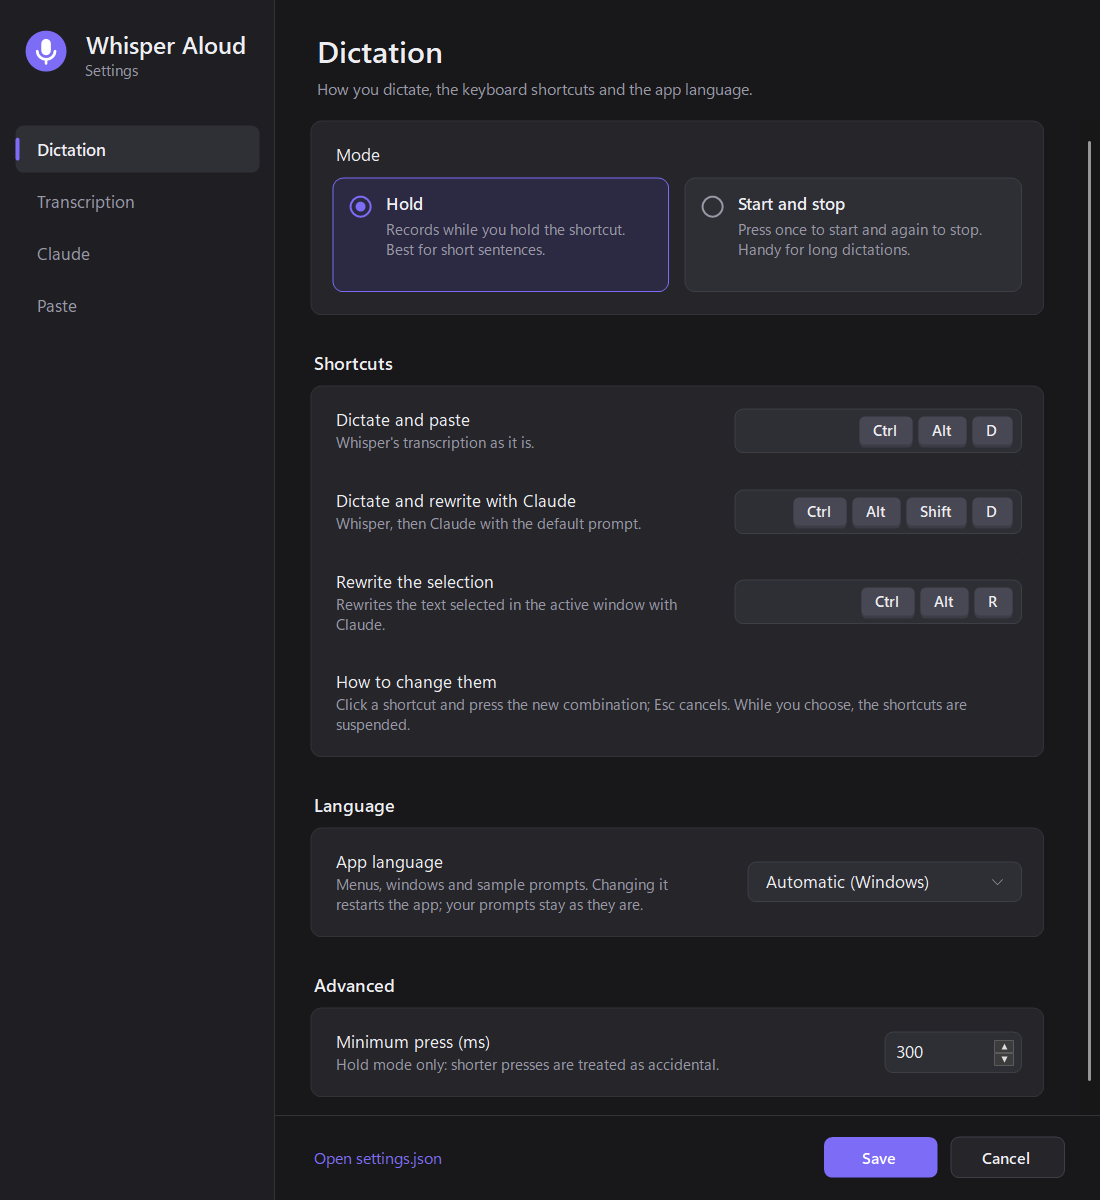
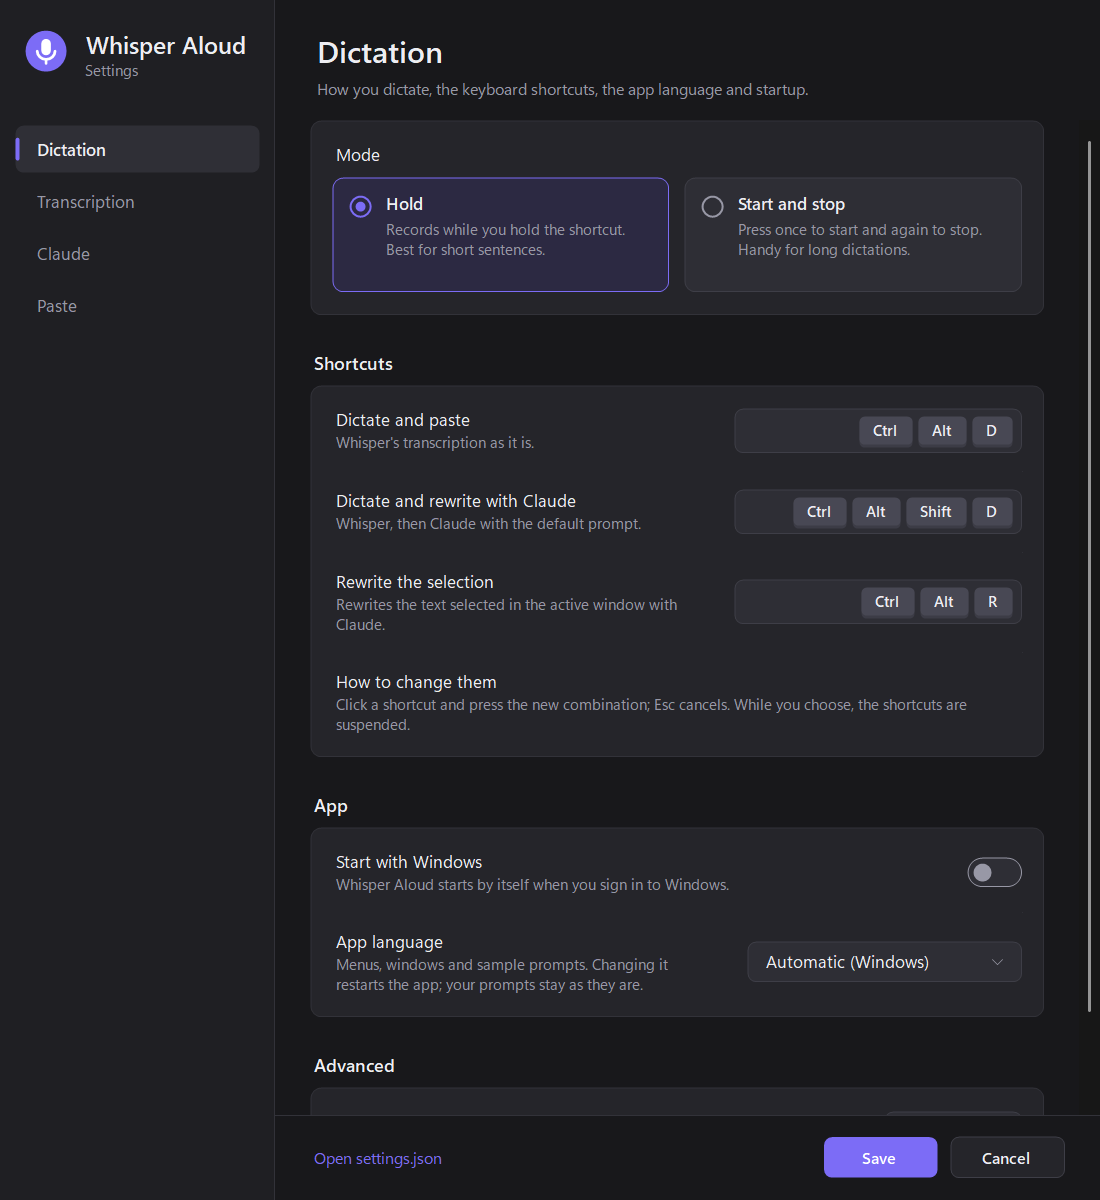
Release workflow, single-file exe and Start with Windows
- A tag v* builds a self-contained single-file WhisperAloud.exe for Windows x64
  (68 MB, .NET and Whisper native libraries included, only win-x64 and
  vulkan/win-x64 kept) and attaches it to a GitHub Release.
- New "Start with Windows" setting, through the user's Run registry key; the
  path is refreshed at every start so it survives moving the exe.
- README: Usage starts from the downloaded exe, with the SmartScreen note;
  running from source and releasing are in CONTRIBUTING.

diff --git a/src/WhisperAloud.App/SettingsForm.cs b/src/WhisperAloud.App/SettingsForm.cs
@@ -22,6 +22,7 @@ internal sealed class SettingsForm : Form
     private readonly KeyCapBox _hotkeySelection = new();
     private readonly NumericUpDown _minRecording = Number(0, 5000, 50);
     private readonly DarkComboBox _uiLanguage = Combo(220);
+    private readonly ToggleSwitch _startWithWindows = new();
 
     private readonly DarkComboBox _microphone = Combo(300);
     private readonly DarkComboBox _gpu = Combo(300);
@@ -74,7 +75,7 @@ internal sealed class SettingsForm : Form
         _toggle.Selected += (_, _) => SelectMode(DictationMode.Toggle);
 
         var pageHost = new Panel { Dock = DockStyle.Fill, BackColor = Window };
-        AddPage(pageHost, T("Dettatura", "Dictation"), T("Come detti, le scorciatoie da tastiera e la lingua dell'app.", "How you dictate, the keyboard shortcuts and the app language."), BuildDictationPage());
+        AddPage(pageHost, T("Dettatura", "Dictation"), T("Come detti, le scorciatoie da tastiera, lingua e avvio dell'app.", "How you dictate, the keyboard shortcuts, the app language and startup."), BuildDictationPage());
         AddPage(pageHost, T("Trascrizione", "Transcription"), T("Microfono e Whisper, il modello che trascrive in locale sulla GPU.", "Microphone and Whisper, the model that transcribes locally on the GPU."), BuildTranscriptionPage());
         AddPage(pageHost, "Claude", T("Riscrittura con i tuoi prompt, solo quando la chiedi.", "Rewriting with your prompts, only when you ask for it."), BuildClaudePage());
         AddPage(pageHost, T("Incolla", "Paste"), T("Cosa succede dopo la trascrizione.", "What happens after the transcription."), BuildPastePage());
@@ -130,8 +131,10 @@ internal sealed class SettingsForm : Form
                 new SettingRow(T("Come cambiarle", "How to change them"),
                     T("Clicca su una scorciatoia e premi la nuova combinazione; Esc annulla. Mentre scegli, le scorciatoie sono sospese.",
                       "Click a shortcut and press the new combination; Esc cancels. While you choose, the shortcuts are suspended."), null)),
-            Section(T("Lingua", "Language")),
+            Section("App"),
             new SettingsCard(
+                new SettingRow(T("Avvia con Windows", "Start with Windows"),
+                    T("Whisper Aloud parte da solo quando accedi a Windows.", "Whisper Aloud starts by itself when you sign in to Windows."), _startWithWindows),
                 new SettingRow(T("Lingua dell'app", "App language"),
                     T("Menu, finestre e prompt di esempio. Cambiandola l'app si riavvia; i tuoi prompt restano come sono.",
                       "Menus, windows and sample prompts. Changing it restarts the app; your prompts stay as they are."), _uiLanguage)),
@@ -331,6 +334,7 @@ internal sealed class SettingsForm : Form
         _uiLanguage.Items.AddRange([new TextChoice("auto", T("Automatica (Windows)", "Automatic (Windows)")),
             new TextChoice("it", "Italiano"), new TextChoice("en", "English")]);
         _uiLanguage.SelectedItem = _uiLanguage.Items.Cast<TextChoice>().FirstOrDefault(c => c.Value == _settings.UiLanguage) ?? _uiLanguage.Items[0];
+        _startWithWindows.Checked = _settings.StartWithWindows;
 
         _microphone.Items.Add(new Choice(-1, T("Predefinito di Windows", "Windows default")));
         foreach (var (index, name) in MicRecorder.ListDevices()) _microphone.Items.Add(new Choice(index, name));
@@ -408,6 +412,7 @@ internal sealed class SettingsForm : Form
         _settings.HotkeyCleanSelection = _hotkeySelection.Text;
         _settings.MinRecordingMs = (int)_minRecording.Value;
         _settings.UiLanguage = ((TextChoice)_uiLanguage.SelectedItem!).Value;
+        _settings.StartWithWindows = _startWithWindows.Checked;
 
         _settings.MicrophoneDevice = ((Choice)_microphone.SelectedItem!).Value;
         _settings.GpuDevice = ((Choice)_gpu.SelectedItem!).Value;

diff --git a/src/WhisperAloud.App/TrayApp.cs b/src/WhisperAloud.App/TrayApp.cs
@@ -67,6 +67,7 @@ internal sealed class TrayApp : ApplicationContext
 
         AppLog.Info($"avvio, microfono: {MicRecorder.DeviceName(settings.MicrophoneDevice)}");
         RegisterHotkeys();
+        if (settings.StartWithWindows) ApplyAutostart(true); // aggiorna il percorso se l'exe è stato spostato
         StartCleaner();
         _ = LoadTranscriberAsync();
     }
@@ -453,6 +454,8 @@ internal sealed class TrayApp : ApplicationContext
         }
         AppLog.Info($"impostazioni salvate (modalità {updated.Mode}, microfono {MicRecorder.DeviceName(updated.MicrophoneDevice)}, GPU {updated.GpuDevice})");
 
+        if (old.StartWithWindows != updated.StartWithWindows) ApplyAutostart(updated.StartWithWindows);
+
         // La lingua dell'interfaccia vale per menu e finestre già costruiti: si riavvia l'app.
         if (Loc.Resolve(old.UiLanguage) != Loc.Resolve(updated.UiLanguage))
         {
@@ -551,6 +554,19 @@ internal sealed class TrayApp : ApplicationContext
         AppLog.Write(e);
         if (_overlay is not null) _overlay.ShowMessage(T("Errore", "Error"), e.Message);
         else _tray.ShowBalloonTip(5000, Title, e.Message, ToolTipIcon.Error);
+    }
+
+    private void ApplyAutostart(bool enabled)
+    {
+        try
+        {
+            Autostart.Apply(enabled);
+            AppLog.Info($"avvio con Windows: {(enabled ? "attivo" : "spento")}");
+        }
+        catch (Exception e) when (e is UnauthorizedAccessException or System.Security.SecurityException or IOException)
+        {
+            Report(new InvalidOperationException(T($"Avvio con Windows non impostato: {e.Message}", $"Could not set Start with Windows: {e.Message}"), e));
+        }
     }
 
     /// <summary>Avvia una nuova istanza, che aspetta la chiusura di questa prima di partire.</summary>

diff --git a/src/WhisperAloud.App/Autostart.cs b/src/WhisperAloud.App/Autostart.cs
@@ -1,0 +1,20 @@
+using Microsoft.Win32;
+
+namespace WhisperAloud.App;
+
+/// <summary>
+/// Avvio con Windows tramite la chiave Run dell'utente (niente permessi di amministratore). Il percorso si
+/// riscrive a ogni avvio, così l'opzione continua a funzionare anche se l'exe viene spostato.
+/// </summary>
+internal static class Autostart
+{
+    private const string RunKey = @"Software\Microsoft\Windows\CurrentVersion\Run";
+    private const string ValueName = "WhisperAloud";
+
+    public static void Apply(bool enabled)
+    {
+        using var key = Registry.CurrentUser.CreateSubKey(RunKey);
+        if (enabled) key.SetValue(ValueName, $"\"{Environment.ProcessPath}\"");
+        else if (key.GetValue(ValueName) is not null) key.DeleteValue(ValueName);
+    }
+}

diff --git a/src/WhisperAloud.Core/WhisperAloudSettings.cs b/src/WhisperAloud.Core/WhisperAloudSettings.cs
@@ -58,6 +58,9 @@ public sealed class WhisperAloudSettings
     /// <summary>Le pressioni più brevi di così sono considerate accidentali.</summary>
     public int MinRecordingMs { get; set; } = 300;
 
+    /// <summary>Avvia l'app all'accesso a Windows (chiave Run dell'utente).</summary>
+    public bool StartWithWindows { get; set; }
+
     private static readonly JsonSerializerOptions JsonOptions = new()
     {
         WriteIndented = true,

diff --git a/README.md b/README.md
@@ -5,7 +5,7 @@ Voice dictation for Windows in the style of Wispr Flow: hold a shortcut, speak, 
 - **Local transcription**
   - With [Whisper.net](https://github.com/sandrohanea/whisper.net) (whisper.cpp) and the quantized `large-v3-turbo` model, on the GPU through Vulkan.
 - **Optional rewriting with Claude**
-  - Light proofreading, meeting notes, translation, or your own.
+  - [Prompts](docs/settings.md#prompts): light proofreading, meeting notes, translation, or your own.
   - Through the [Claude Code](https://code.claude.com/docs/en/overview) CLI in headless mode, using the Claude subscription already signed in on the machine.
 
 ![Dictating an email with Whisper Aloud](docs/images/usage.gif)
@@ -14,17 +14,17 @@ Transcription runs locally on your GPU; rewriting with Claude is optional and on
 
 ## Prerequisites
 
-- Windows 10 or 11, x64, with the [.NET 10 SDK](https://dotnet.microsoft.com/download).
+- Windows 10 or 11, x64.
 - A GPU with a Vulkan driver for fast transcription. Without one Whisper falls back to the CPU and is much slower. On laptops with hybrid graphics the app picks the dedicated GPU automatically: see [latency](docs/latency.md#laptops-with-two-gpus).
 - For rewriting only: [Claude Code](https://code.claude.com/docs/en/overview) installed and signed in (`claude` on the `PATH` or in `%USERPROFILE%\.local\bin`). The app never handles logins or credentials; without Claude Code it still transcribes.
 
 ## Usage
 
-```bash
-dotnet run -c Release --project src/WhisperAloud.App
-```
+Download `WhisperAloud.exe` from the [latest release](https://github.com/mgiuseppe/whisper-aloud/releases/latest) and run it: no installation, and .NET is included. On first start the app downloads the Whisper model (~550 MB) to `%LOCALAPPDATA%\WhisperAloud\models` and creates `%APPDATA%\WhisperAloud\settings.json`. To have it start when you sign in, turn on **Start with Windows** in the settings.
 
-On first start the app downloads the Whisper model (~550 MB) to `%LOCALAPPDATA%\WhisperAloud\models` and creates `%APPDATA%\WhisperAloud\settings.json`.
+The exe is not code-signed, so the first time Windows SmartScreen may say "Windows protected your PC": choose **More info**, then **Run anyway**.
+
+To run it from the source code instead, see [Contributing](CONTRIBUTING.md#build-and-run).
 
 ### Shortcuts
 
@@ -33,8 +33,6 @@ On first start the app downloads the Whisper model (~550 MB) to `%LOCALAPPDATA%\
 | `Ctrl+Alt+D` (hold) | dictate and paste Whisper's transcription as it is |
 | `Ctrl+Alt+Shift+D` (hold) | dictate, rewrite with the default Claude prompt, paste |
 | `Ctrl+Alt+R` | rewrite the selected text with the default prompt and replace it |
-
-Rewriting uses customizable [prompts](docs/settings.md#prompts).
 
 > [!NOTE]
 > Whisper transcribes in the language set in the settings (Italian or English by default, following the app language), not the one it hears. You can set it to `auto` to detect the language from the recording, handy if you switch languages often, but on short dictations it guesses wrong more often: see [Transcription settings](docs/settings.md#transcription).

diff --git a/CONTRIBUTING.md b/CONTRIBUTING.md
@@ -13,7 +13,7 @@ Thanks for taking a look. This page covers the project layout, how to build, tes
 | Path | Contents |
 |---|---|
 | `src/WhisperAloud.Core` | transcription (`WhisperTranscriber`, `VulkanDevices`), rewriting (`ClaudeCleaner`, `ClaudeProcess`, `CleanupPrompt`, stream-json protocol in `StreamJson`), settings (`WhisperAloudSettings`), data folders (`AppPaths`), latency log |
-| `src/WhisperAloud.App` | WinForms tray app: shortcuts (`Hotkey`, `RegisterHotKey`), recording (`MicRecorder`, NAudio), pasting (`TextInjector`, `SendInput`), status window (`OverlayForm`), settings window (`SettingsForm`), dark theme (`Theme`, `ModernControls`) |
+| `src/WhisperAloud.App` | WinForms tray app: shortcuts (`Hotkey`, `RegisterHotKey`), start with Windows (`Autostart`), recording (`MicRecorder`, NAudio), pasting (`TextInjector`, `SendInput`), status window (`OverlayForm`), settings window (`SettingsForm`), dark theme (`Theme`, `ModernControls`) |
 | `tests/WhisperAloud.Core.Tests` | xUnit tests for the stream-json protocol, prompts, prompt lookup and CLI arguments |
 | `tools/WhisperAloud.Bench` | benchmark of the pipeline on audio files |
 | `samples` | three sentences synthesized with the Windows "Elsa" voice (for Whisper timing) and `trascrizioni.txt` (for rewriting quality and timing) |
@@ -28,7 +28,27 @@ dotnet build WhisperAloud.slnx -c Release
 dotnet run -c Release --project src/WhisperAloud.App
 ```
 
-Only one instance runs at a time: quit the running app from the tray menu (**Esci**) before starting a new build, otherwise the new one exits immediately.
+Only one instance runs at a time: quit the running app from the tray menu (**Quit**) before starting a new build, otherwise the new one exits immediately.
+
+## Release
+
+Pushing a tag that starts with `v` runs the [Release workflow](.github/workflows/release.yml): it runs the tests, publishes a self-contained single-file `WhisperAloud.exe` for Windows x64 and creates a GitHub Release with the exe attached and notes generated from the commits.
+
+```bash
+git tag v1.0.0
+```
+
+```bash
+git push origin v1.0.0
+```
+
+To build the same exe locally:
+
+```bash
+dotnet publish src/WhisperAloud.App -c Release -r win-x64 --self-contained true -p:PublishSingleFile=true -p:IncludeAllContentForSelfExtract=true -p:EnableCompressionInSingleFile=true -p:DebugType=none -o publish
+```
+
+The exe bundles .NET and the Whisper native libraries, keeping only those for `win-x64` (CPU) and `vulkan/win-x64` (GPU); on first start it extracts them to `%TEMP%\.net\WhisperAloud`.
 
 ## Tests
 

diff --git a/docs/settings.md b/docs/settings.md
@@ -25,6 +25,7 @@ The interface is available in English and Italian: see **App language** under [D
   - **Dictate and rewrite with Claude**: dictate, rewrite with the default prompt, paste.
   - **Rewrite the selection**: rewrite the text selected in the active window with the default prompt.
   - If a shortcut is already taken by another app, Whisper Aloud says so and still registers the others.
+- **Start with Windows**: starts Whisper Aloud when you sign in to Windows, through the `Run` key of your user in the registry; no administrator rights needed. If you move the exe, the path is updated at the next start.
 - **App language**: **Automatic (Windows)** uses Italian when Windows is in Italian and English otherwise; or choose **Italiano** or **English**. Changing it restarts the app. The sample prompts are created in the app language on first start; after that they are yours and are not translated.
 - **Minimum press (ms)**: hold mode only; shorter presses are treated as accidental and show a hint instead of recording.
 
@@ -116,6 +117,7 @@ The settings window covers everything most people need. The link **Open settings
 | `HotkeyDictateWithClaude` | `Ctrl+Alt+Shift+D` | |
 | `HotkeyCleanSelection` | `Ctrl+Alt+R` | |
 | `MinRecordingMs` | `300` | hold mode only |
+| `StartWithWindows` | `false` | start the app when you sign in to Windows |
 | `UiLanguage` | `auto` | app language: `auto` (Italian if Windows is in Italian, otherwise English), `it` or `en` |
 | `Language` | `en`, or `it` with the Italian interface | Whisper language code, or `auto` |
 | `WhisperModel` | `ggml-large-v3-turbo-q5_0.bin` | name in the models folder or full path |
